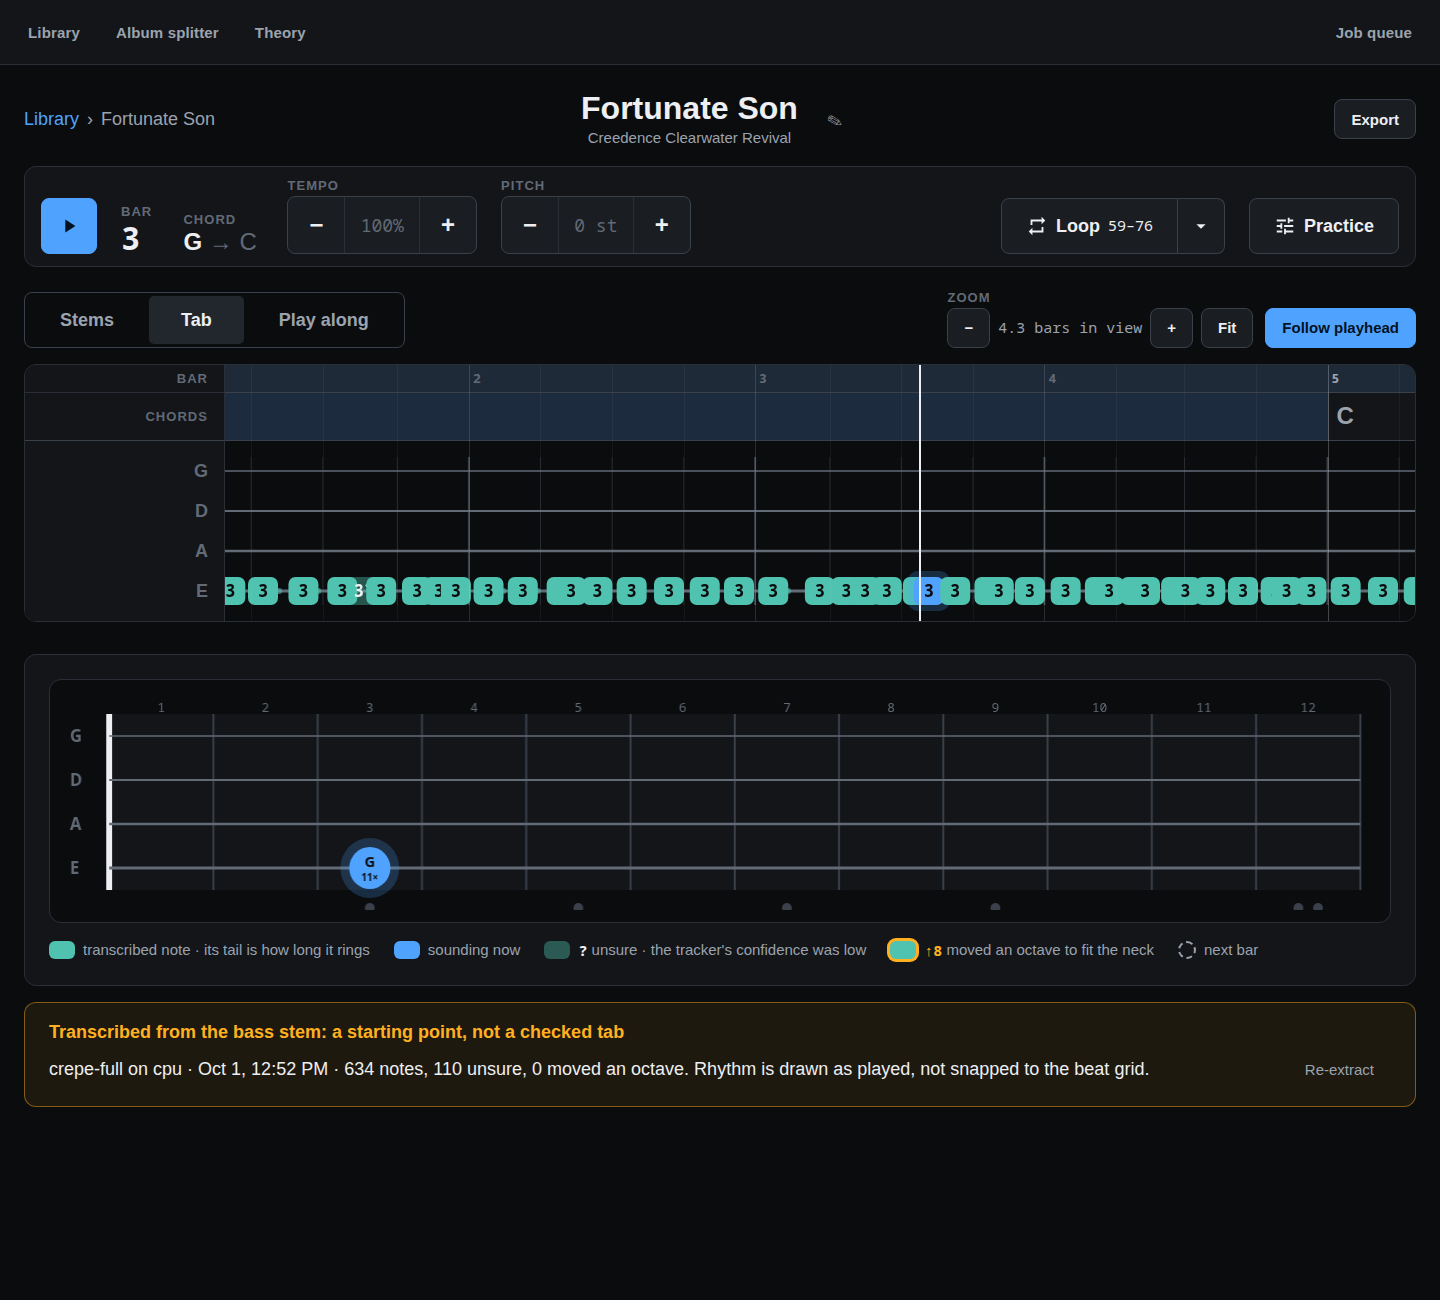
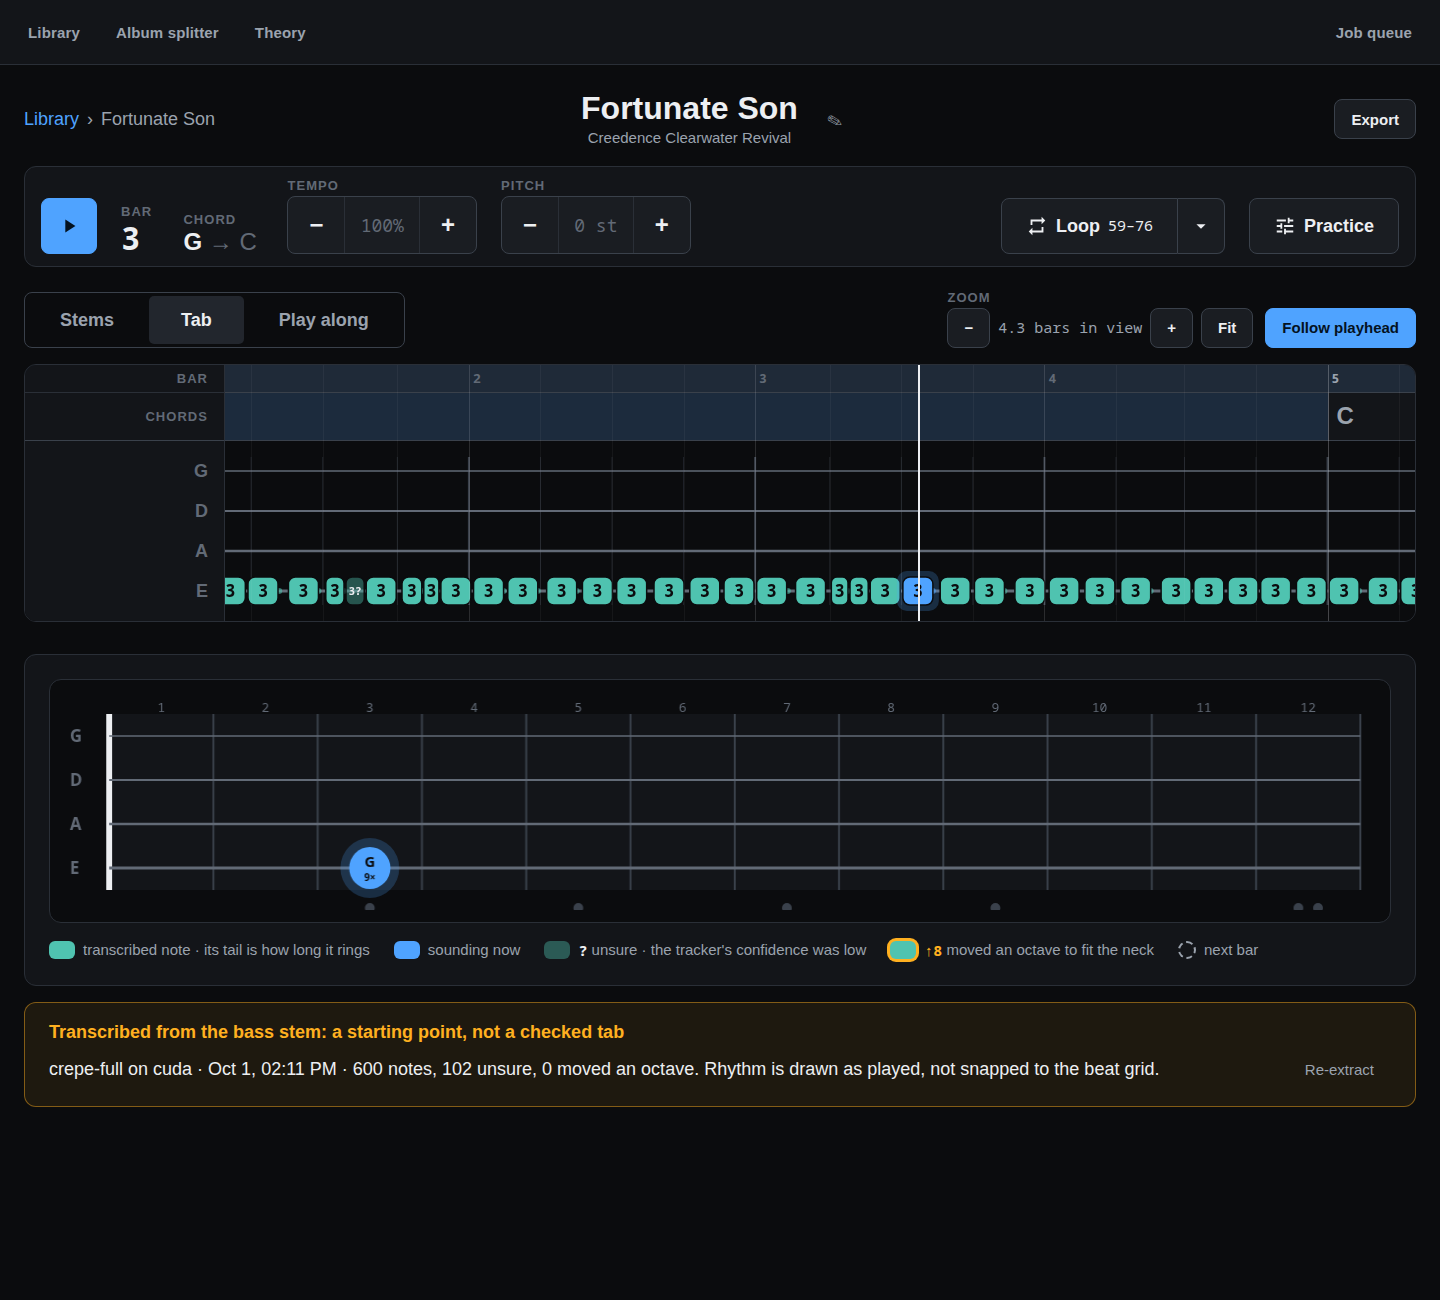
feat(tab): dense passages stay readable, one chip per note
A chip narrows to the room before the next note on its string instead of
overlapping it, its fret number steps down 17 -> 13 -> 11 px to fit (the
unsure '?' goes first; the 40 % fill still says it), and a thin ground edge
keeps touching chips apart. Same in the design system's @tabstaff macro and
card, and in the UI spec's Tab staff entry. Screenshot re-captured from a
GPU re-extract.

diff --git a/frontend/src/songview/tabStaffPainter.ts b/frontend/src/songview/tabStaffPainter.ts
@@ -3,6 +3,11 @@
 // four strings, highest on top; a note is a mono fret chip whose left edge is its
 // onset, with a tail to where it stops, never snapped to the grid. Only the visible
 // slice [scrollLeft, scrollLeft + width) is painted.
+//
+// Dense passages stay legible: a chip narrows to the room before the next note on its
+// string (never past it), its fret number steps down in size to fit, and every chip has
+// a thin ground-coloured edge, so touching notes still read as separate attacks. The
+// unsure "?" is the first thing to go when room runs out; the 40 % fill still says it.
 import type { TabNote } from '../music/bassTab';
 import { showBeatLines, type TimeScale } from '../music/timeScale';
 import type { PlayAlongColors } from '../playalong/colors';
@@ -22,6 +27,29 @@ export function chipLabel(note: TabNote): string {
 }
 
 const chipWidth = (label: string) => Math.max(30, 14 + 11 * label.length);
+/** The narrowest chip: a one- or two-digit fret at the smallest size still reads. */
+const MIN_CHIP = 14;
+/** Space kept between a narrowed chip and the next note's onset. */
+const CHIP_GAP = 2;
+/** Font sizes a label may step down through, and the width of one mono glyph at each. */
+const LABEL_SIZES = [17, 13, 11] as const;
+const SMALLEST = 11;
+const glyph = (size: number) => size * 0.6;
+
+/** The largest size at which `text` fits a chip `width` wide, or null. */
+function fitSize(text: string, width: number): number | null {
+  for (const size of LABEL_SIZES) if (text.length * glyph(size) + 4 <= width) return size;
+  return null;
+}
+
+/** What to print on a chip `width` wide: the full label, else the bare fret, smaller. */
+function fitLabel(note: TabNote, width: number): { text: string; size: number } {
+  const full = chipLabel(note);
+  const fullSize = fitSize(full, width);
+  if (fullSize !== null) return { text: full, size: fullSize };
+  const fret = String(note.position.fret);
+  return { text: fret, size: fitSize(fret, width) ?? SMALLEST };
+}
 const octaveLabel = (octave: number) => `${octave > 0 ? '↑' : '↓'}${8 * Math.abs(octave)}`;
 
 export interface StaffView {
@@ -73,13 +101,23 @@ export function paintStaff(ctx: CanvasRenderingContext2D, view: StaffView): void
     ctx.stroke();
   }
 
+  // Where the next note on the same string starts: a chip never reaches past it.
+  const nextOnString: number[] = new Array(notes.length);
+  const seen = [Infinity, Infinity, Infinity, Infinity];
+  for (let i = notes.length - 1; i >= 0; i--) {
+    const s = notes[i]!.position.string;
+    nextOnString[i] = seen[s]!;
+    seen[s] = notes[i]!.start;
+  }
+
   ctx.textAlign = 'center';
   ctx.textBaseline = 'alphabetic';
   notes.forEach((note, i) => {
-    const label = chipLabel(note);
-    const cw = chipWidth(label);
     const left = x(note.start);
     const end = x(note.end);
+    const room = nextOnString[i] === Infinity ? Infinity : x(nextOnString[i]!) - left - CHIP_GAP;
+    const cw = Math.max(MIN_CHIP, Math.min(chipWidth(chipLabel(note)), room));
+    const label = fitLabel(note, cw);
     if (left > width || Math.max(left + cw, end) < 0) return;
     const y = staffStringY(note.position.string);
     const isHot = i === hot;
@@ -107,9 +145,13 @@ export function paintStaff(ctx: CanvasRenderingContext2D, view: StaffView): void
     ctx.globalAlpha = alpha;
     ctx.fillStyle = fill;
     ctx.beginPath();
-    ctx.roundRect(left, y - CHIP_H / 2, cw, CHIP_H, 7);
+    ctx.roundRect(left, y - CHIP_H / 2, cw, CHIP_H, Math.min(7, cw / 3));
     ctx.fill();
     ctx.globalAlpha = 1;
+    // The edge that keeps touching chips apart.
+    ctx.strokeStyle = colors.ground;
+    ctx.lineWidth = 1.5;
+    ctx.stroke();
     if (note.octave !== 0) {
       // A substitution says what it changed (U-16, N-08).
       ctx.strokeStyle = colors.approach;
@@ -120,7 +162,7 @@ export function paintStaff(ctx: CanvasRenderingContext2D, view: StaffView): void
       ctx.fillText(octaveLabel(note.octave), left + cw / 2, y - 19);
     }
     ctx.fillStyle = note.unsure && !isHot ? colors.text : colors.onNote;
-    ctx.font = '700 17px ui-monospace, monospace';
-    ctx.fillText(label, left + cw / 2, y + 6);
+    ctx.font = `700 ${label.size}px ui-monospace, monospace`;
+    ctx.fillText(label.text, left + cw / 2, y + label.size * 0.35);
   });
 }

diff --git a/frontend/src/songview/tabStaffPainter.test.ts b/frontend/src/songview/tabStaffPainter.test.ts
@@ -38,6 +38,46 @@ const note = (start: number, fret: number, extra: Partial<TabNote> = {}): TabNot
 });
 const scale = { pxPerSample: 0.01, pxPerBar: 960, contentWidth: 10000 };
 
+describe('dense passages (still one readable chip per note)', () => {
+  const paint = (notes: TabNote[]) => {
+    const r = recording();
+    paintStaff(r.ctx, { width: 800, scrollLeft: 0, scale, notes, hot: -1, bars: [], beats: [], colors });
+    return r.texts;
+  };
+
+  it('draws every fret number even when notes are closer than a full chip', () => {
+    // 1600 samples apart = 16 px at this scale: half a full chip.
+    const texts = paint([note(0, 3), note(1600, 3), note(3200, 5), note(4800, 3)]);
+    expect(texts.filter(([s]) => /^\d+$/.test(s)).map(([s]) => s)).toEqual(['3', '3', '5', '3']);
+  });
+
+  it('centres each label inside its own narrowed chip, left to right', () => {
+    const xs = paint([note(0, 3), note(1600, 3), note(3200, 3)]).map(([, x]) => x);
+    // 16 px apart: each chip is 14 px (a 2 px gap before the next), label at its centre.
+    expect(xs[0]).toBe(7);
+    expect(xs[1]).toBe(23);
+    expect(xs[2]).toBe(47); // the last has the room it needs: a full 30 px chip
+  });
+
+  it("drops the unsure '?' before the fret when a chip is narrowed, but keeps the fret", () => {
+    const texts = paint([note(0, 12, { unsure: true }), note(2000, 3)]);
+    expect(texts.map(([s]) => s)).toContain('12');
+  });
+
+  it('keeps the full label where there is room', () => {
+    const texts = paint([note(0, 3, { unsure: true }), note(9600, 3)]);
+    expect(texts.map(([s]) => s)).toContain('3?');
+  });
+
+  it('notes on different strings do not narrow each other', () => {
+    const r = recording();
+    const a = note(0, 3);
+    const b = { ...note(1000, 5), position: { string: 2, fret: 5 } };
+    paintStaff(r.ctx, { width: 800, scrollLeft: 0, scale, notes: [a, b], hot: -1, bars: [], beats: [], colors });
+    expect(r.texts.find(([s]) => s === '3')![1]).toBe(15); // full 30 px chip, centred
+  });
+});
+
 describe('tab staff painter', () => {
   it('draws the low E at the bottom', () => {
     expect(staffStringY(0)).toBeGreaterThan(staffStringY(3));

diff --git a/design/ui/src/pages/components/tabstaff.html b/design/ui/src/pages/components/tabstaff.html
@@ -50,9 +50,10 @@ clock like every other painter (D-07).</p></div>
     <div class="head"><!--@tabstaff part=head--></div>
     <div class="lane"><!--@tabstaff w=860 ppb=120 start=0 notes=0:0:1.5:3:3,0:1.5:.5:3:3,0:2:1:2:5,0:3:1:2:1,1:0:1.5:2:5,1:2:1:1:7,1:3:1:1:3,2:0:2:2:6,2:2:2:1:5,3:0:1.5:3:3,3:1.5:.5:3:3,3:2:2:2:5,4:0:1.5:3:3,4:2:1:2:5,4:3:1:2:1,5:0:2:2:5,5:2:2:1:3,6:0:4:2:6,7:0:1.5:3:3,7:2:2:2:5--></div>
   </div>
-  <p class="note">The chip keeps its size and only the gaps shrink, so zoomed out a fast run touches and overlaps, the later
-  note drawn on top. That is enough to find your place; zoom in to read the frets. Zoom stays continuous from Fit to the
-  axis maximum, as on every time axis (U-12): no separate floor for the staff.</p>
+  <p class="note">Dense notes stay one readable chip each. A chip narrows to the room before the next note on its string
+  (never past it, never on top of it), its fret number steps down from 17 to 13 to 11 px to fit, and a thin ground-coloured
+  edge keeps touching chips apart, so a fast run reads as separate attacks. When room runs out the unsure "?" goes first;
+  the 40 % fill still says it. Zoom stays continuous from Fit to the axis maximum, as on every time axis (U-12).</p>
 </div>
 
 <div class="sec">

diff --git a/design/ui/build.py b/design/ui/build.py
@@ -304,7 +304,15 @@ def _circle_args(argstr):
 #   now  sounding at the playhead, accent
 #   u    unsure (low confidence): same hue at 40 %, fret number gets a "?"
 #   o    substituted (here: raised an octave, below the open E): warn ring + "↑8"
+# Dense notes (as tabStaffPainter.ts): a chip narrows to the room before the next note on
+# its string, its label steps down 17 -> 13 -> 11 px (the "?" goes first), and a thin
+# ground-coloured edge keeps touching chips apart.
 TAB_STRINGS = ["G", "D", "A", "E"]
+TAB_SIZES = (17, 13, 11)
+
+
+def _tab_fit(text, width):
+    return next((s for s in TAB_SIZES if len(text) * s * 0.6 + 4 <= width), None)
 
 
 def _tab_notes(spec):
@@ -346,10 +354,20 @@ def tabstaff(w=1200, ppb=280, start=1.0, bpb=4, notes="", part="lane", sh=40):
         y = top + sh * si
         o.append(f'<line x1="0" x2="{w}" y1="{y}" y2="{y}" stroke="var(--ds-text-3)" '
                  f'stroke-width="{1.4+si*0.6:.1f}"/>')
-    for bar, onset, dur, si, fret, kind in _tab_notes(notes):
+    parsed = _tab_notes(notes)
+    nxt, seen = [None] * len(parsed), {}
+    for i in range(len(parsed) - 1, -1, -1):
+        nxt[i] = seen.get(parsed[i][3])
+        seen[parsed[i][3]] = bx(parsed[i][0], parsed[i][1])
+    for i, (bar, onset, dur, si, fret, kind) in enumerate(parsed):
         x, end, y = bx(bar, onset), bx(bar, onset + dur), top + sh * si
-        label = f"{fret}?" if kind == "u" else str(fret)
-        cw = max(30, 14 + 11 * len(label))
+        full = f"{fret}?" if kind == "u" else str(fret)
+        room = float("inf") if nxt[i] is None else nxt[i] - x - 2
+        cw = max(14, min(max(30, 14 + 11 * len(full)), room))
+        size = _tab_fit(full, cw)
+        label = full if size else str(fret)
+        size = size or _tab_fit(label, cw) or 11
+        rx = min(7, cw / 3)
         fill, txt, op = "var(--ds-bass)", "var(--ds-ground)", 1
         if kind == "now":
             fill, txt = "var(--ds-accent)", "var(--ds-on-accent)"
@@ -362,13 +380,15 @@ def tabstaff(w=1200, ppb=280, start=1.0, bpb=4, notes="", part="lane", sh=40):
             o.append(f'<rect x="{x-6:.1f}" y="{y-20}" width="{cw+12}" height="40" rx="10" '
                      f'fill="var(--ds-accent)" opacity=".22"/>')
         ring = ' stroke="var(--ds-warn)" stroke-width="3"' if kind == "o" else ""
-        o.append(f'<rect x="{x:.1f}" y="{y-14}" width="{cw}" height="28" rx="7" fill="{fill}" '
+        o.append(f'<rect x="{x:.1f}" y="{y-14}" width="{cw:.1f}" height="28" rx="{rx:.1f}" fill="{fill}" '
                  f'opacity="{op}"/>')
+        o.append(f'<rect x="{x:.1f}" y="{y-14}" width="{cw:.1f}" height="28" rx="{rx:.1f}" fill="none" '
+                 f'stroke="var(--ds-ground)" stroke-width="1.5"/>')
         if ring:
-            o.append(f'<rect x="{x:.1f}" y="{y-14}" width="{cw}" height="28" rx="7" fill="none"{ring}/>')
+            o.append(f'<rect x="{x:.1f}" y="{y-14}" width="{cw:.1f}" height="28" rx="{rx:.1f}" fill="none"{ring}/>')
             o.append(f'<text x="{x+cw/2:.1f}" y="{y-19}" text-anchor="middle" font-size="13" font-weight="700" '
                      f'fill="var(--ds-warn)" font-family="ui-monospace,monospace">↑8</text>')
-        o.append(f'<text x="{x+cw/2:.1f}" y="{y+6}" text-anchor="middle" font-size="17" font-weight="700" '
+        o.append(f'<text x="{x+cw/2:.1f}" y="{y+size*0.35:.1f}" text-anchor="middle" font-size="{size}" font-weight="700" '
                  f'fill="{txt}" font-family="ui-monospace,monospace">{label}</text>')
     o.append("</svg>")
     return "".join(o)

diff --git a/design/ui-spec.md b/design/ui-spec.md
@@ -232,7 +232,7 @@ other), a permanent text label, and a fixed lane position; hue is an accelerator
 | Cut list | setup | per track: ▶ (play from its first sample), title, **Start** and **End** typed as `m:ss.mmm`, length, the exact filename the split will write, and × (remove the cut after it). A time that crosses a neighbour is refused with the allowed range — never clamped |
 | Transport bar | performance | one row, identical over Stems, Tab and Play along: play; bar number and chord (now → next) in mono; **tempo** (50–150 %, buttons step 10 %, ↑/↓ keys 5 %) and **pitch** (±12 st) as performance-tier steppers, values muted at their default; a loop split button (body arms the loop and shows its bars; the chevron opens the loop editor: start/end bar steppers and saved loops); and **Practice** (a popover: metronome, count-in). Nothing set once per session sits on the bar itself |
 | View switch | setup (48 px) | Stems / Tab / Play along, three links styled as a segmented control; the chosen view's own tools sit to its right |
-| Tab staff | — | U-16. The Tab view's transcribed bass line on the shared time axis (ruler, chord row, loop region, playhead, U-11/U-12): four lines, highest string on top; a note is a mono fret chip whose left edge is its onset, with a tail to its end, never snapped to the grid. Kinds: transcribed (bass hue), sounding now (accent), unsure (40 % and `?`), substituted (warn ring and the change, e.g. `↑8`). Painted on a viewport-sized canvas, slaved to the engine clock (D-07). Reference: `components/tabstaff.html` |
+| Tab staff | — | U-16. The Tab view's transcribed bass line on the shared time axis (ruler, chord row, loop region, playhead, U-11/U-12): four lines, highest string on top; a note is a mono fret chip whose left edge is its onset, with a tail to its end, never snapped to the grid. Dense notes: a chip narrows to the room before the next note on its string, its label steps down 17 → 13 → 11 px (the `?` goes first), and a thin ground edge keeps touching chips apart. Kinds: transcribed (bass hue), sounding now (accent), unsure (40 % and `?`), substituted (warn ring and the change, e.g. `↑8`). Painted on a viewport-sized canvas, slaved to the engine clock (D-07). Reference: `components/tabstaff.html` |
 | Banner | — | warn and error; carries the verbatim trace (U-09) |
 | Loader | — | U-15. `page` or `inline`; the label is always shown and is what a screen reader hears |
 | Progress bar, job row | setup | estimate derives from the job's recorded device and N-01 |

diff --git a/docs/superpowers/specs/2026-10-01-bass-tab-design.md b/docs/superpowers/specs/2026-10-01-bass-tab-design.md
@@ -47,7 +47,8 @@ re-derivation from `stems/bass.wav`, which never changes (invariant 3).
   "model": "crepe-full",
   "device": "cuda",
   "params": {"fmin_hz": 32.0, "fmax_hz": 400.0, "hop_samples": 480,
-             "voiced_min": 0.5, "gate_db": -45.0, "jump_semitones": 0.6, "min_note_samples": 2880},
+             "voiced_min": 0.5, "gate_db": -45.0, "jump_semitones": 0.6, "min_note_samples": 2880,
+             "min_repeat_samples": 4320},
   "notes": [
     {"start": 108000, "end": 117600, "midi": 31, "cents": -6.5, "confidence": 0.84}
   ]
@@ -92,7 +93,9 @@ Declared steps (D-17): `load` "Load bass stem" (0.05), `track` "Track pitch" (0.
   - A note is a run of voiced frames.
   - The run splits on a pitch jump: three consecutive frames more than 0.6 semitones
     from the running median.
-  - It also splits on an onset from librosa onset detection on the stem (repeated notes).
+  - It also splits on an onset from librosa onset detection on the stem (repeated notes),
+    but only once the note has lasted 90 ms. A second onset peak just after the attack is
+    the same pluck (on Fortunate Son it cut 48 eighths into 60 ms + 160 ms pairs).
   - A fragment shorter than 60 ms merges into the previous note when it is adjacent and
     of the same pitch. Otherwise it is dropped.
   - Pitch is the rounded median. `cents` is the residual. Confidence is the mean
